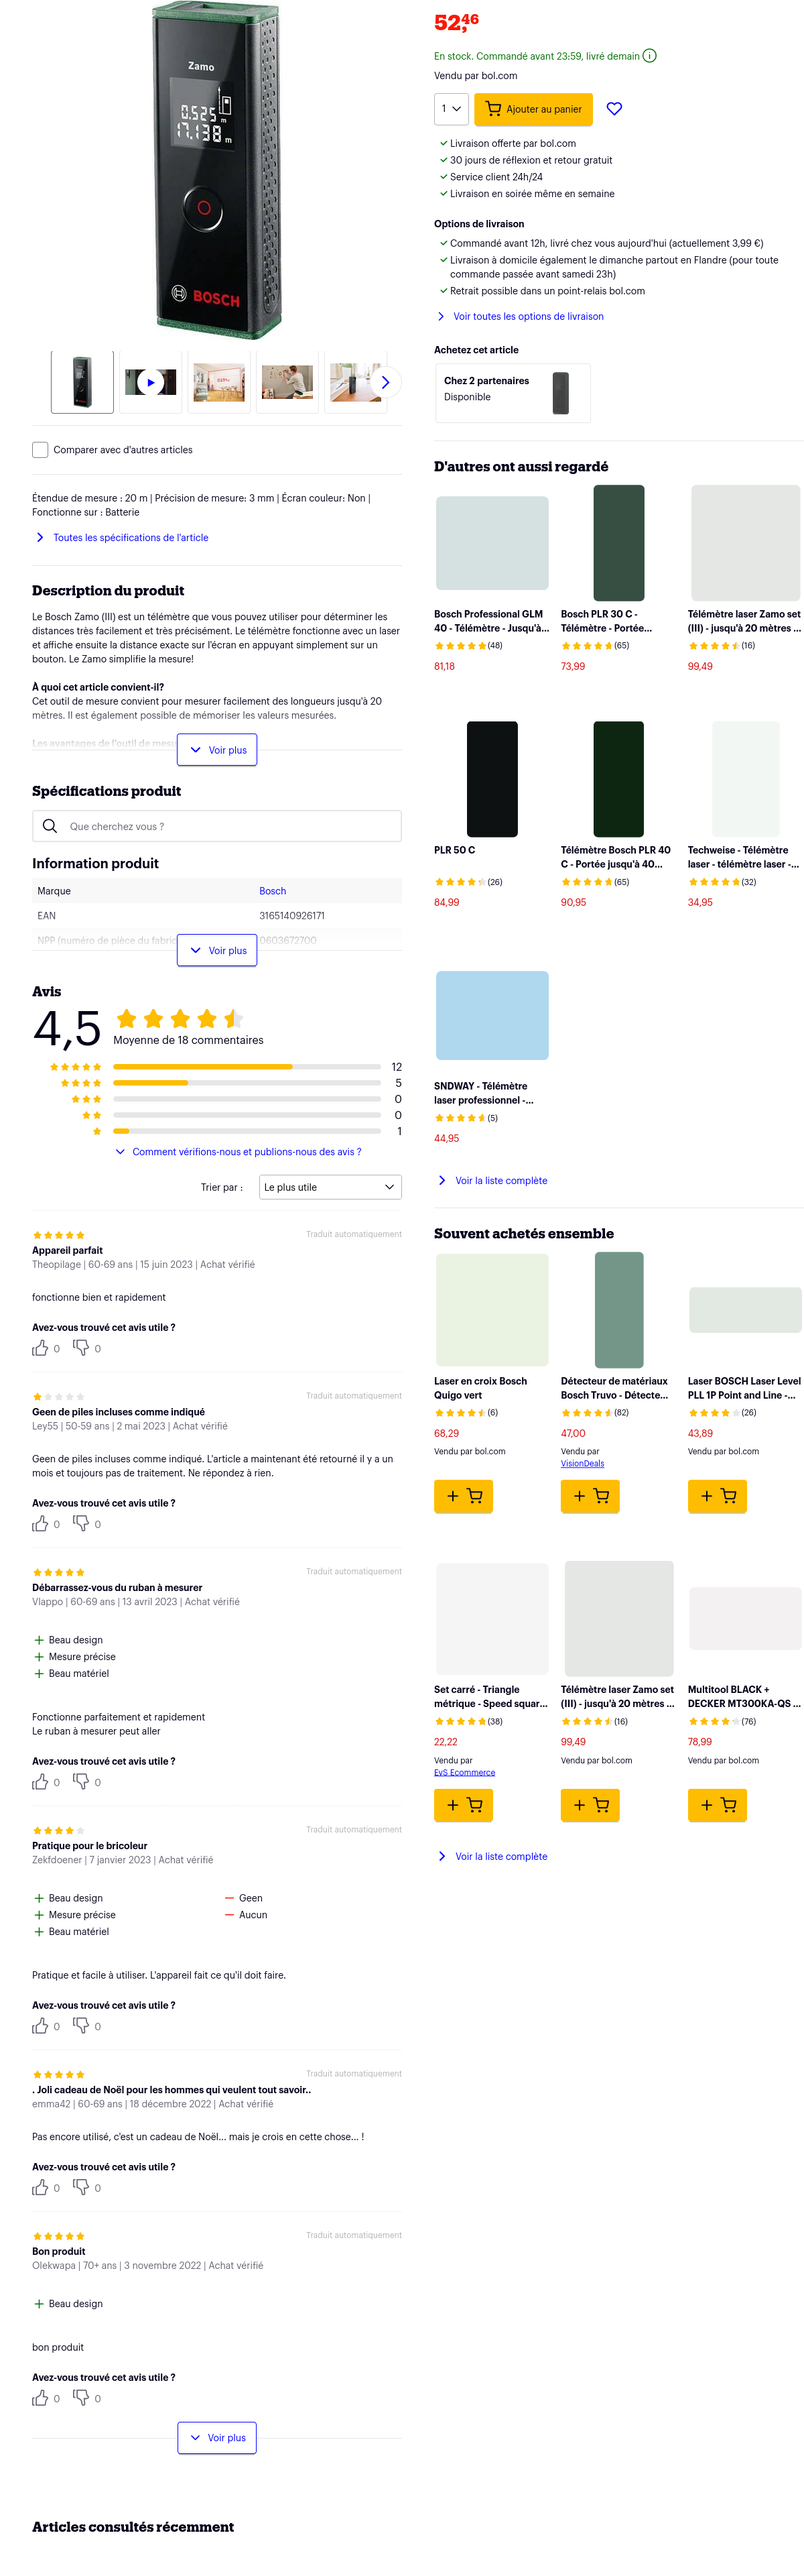
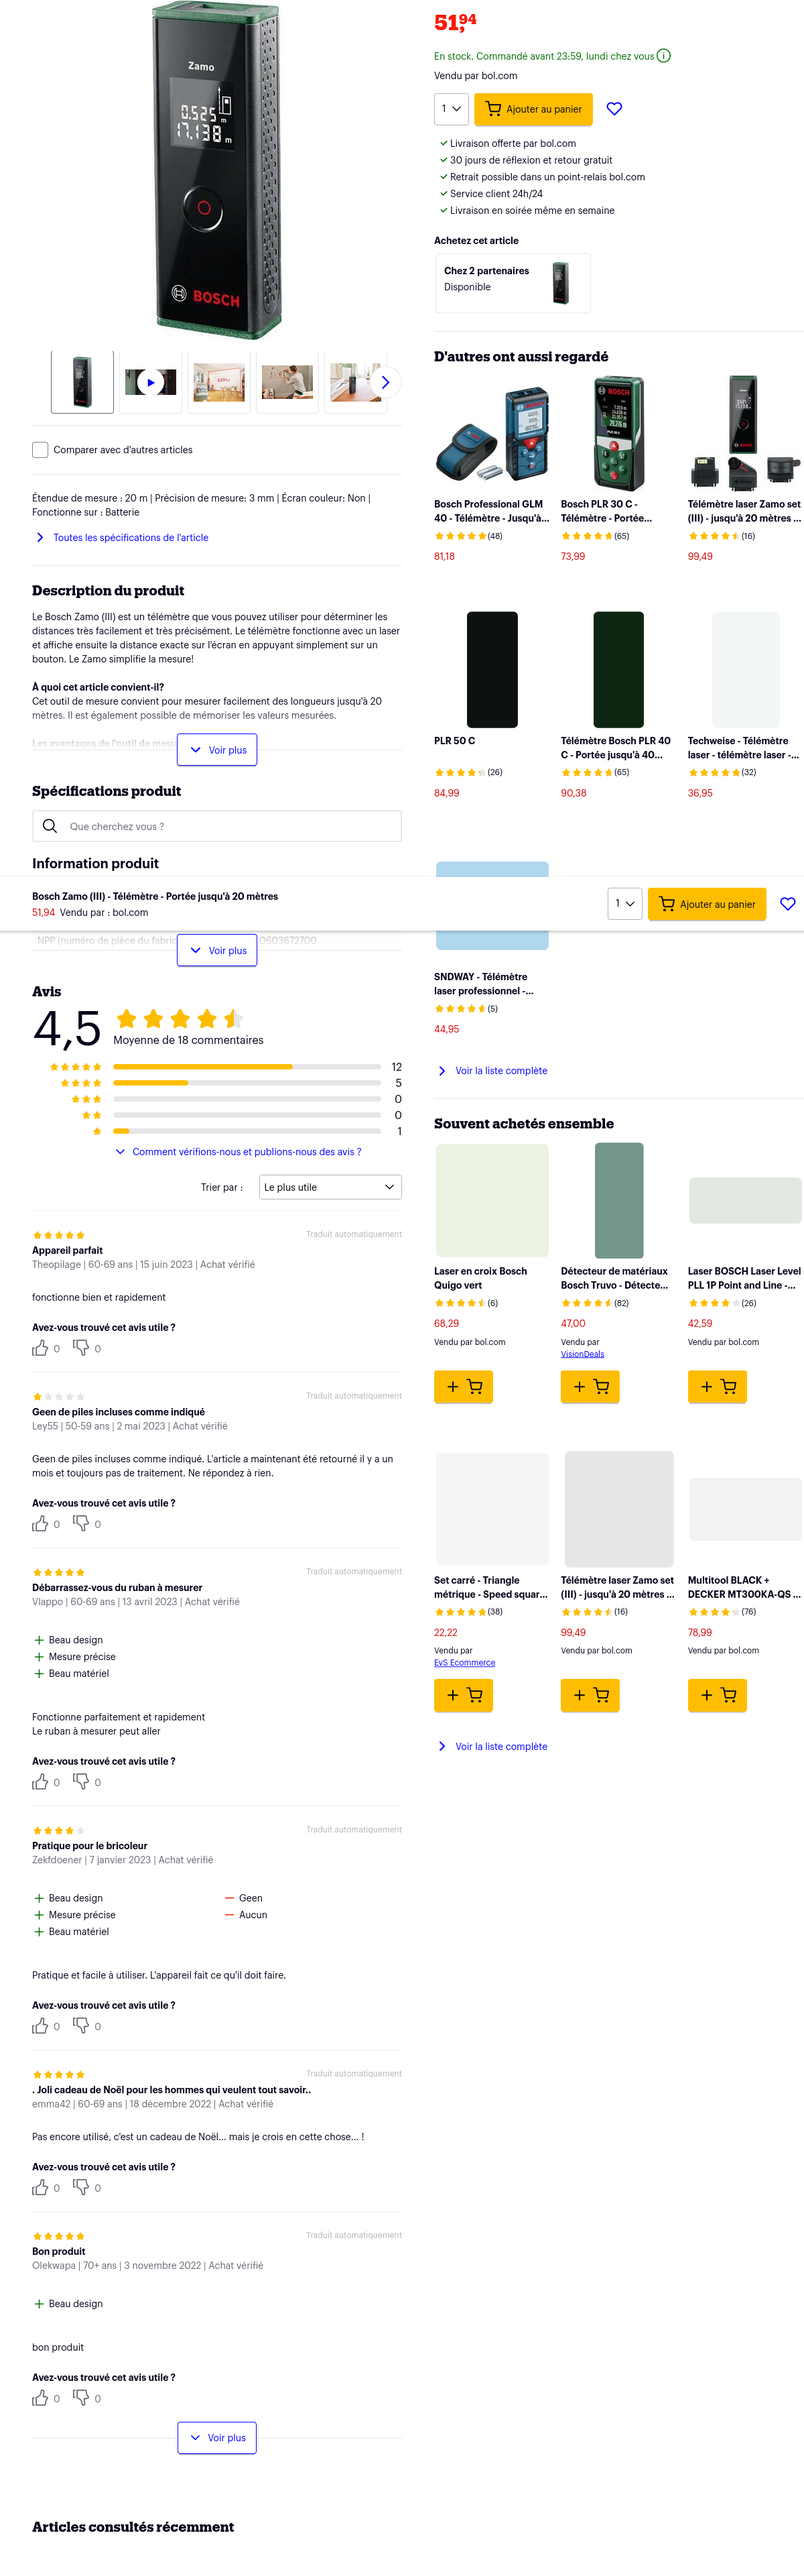
Latest scraping prices: Fri Aug 25 16:50:46 UTC 2023

diff --git a/scrapes/prices/bol-bosch-zamo.md b/scrapes/prices/bol-bosch-zamo.md
@@ -1,4 +1,4 @@
-52 <sup>46</sup>
+51 <sup>94</sup>
 
 ![](bol-bosch-zamo.png)
 
